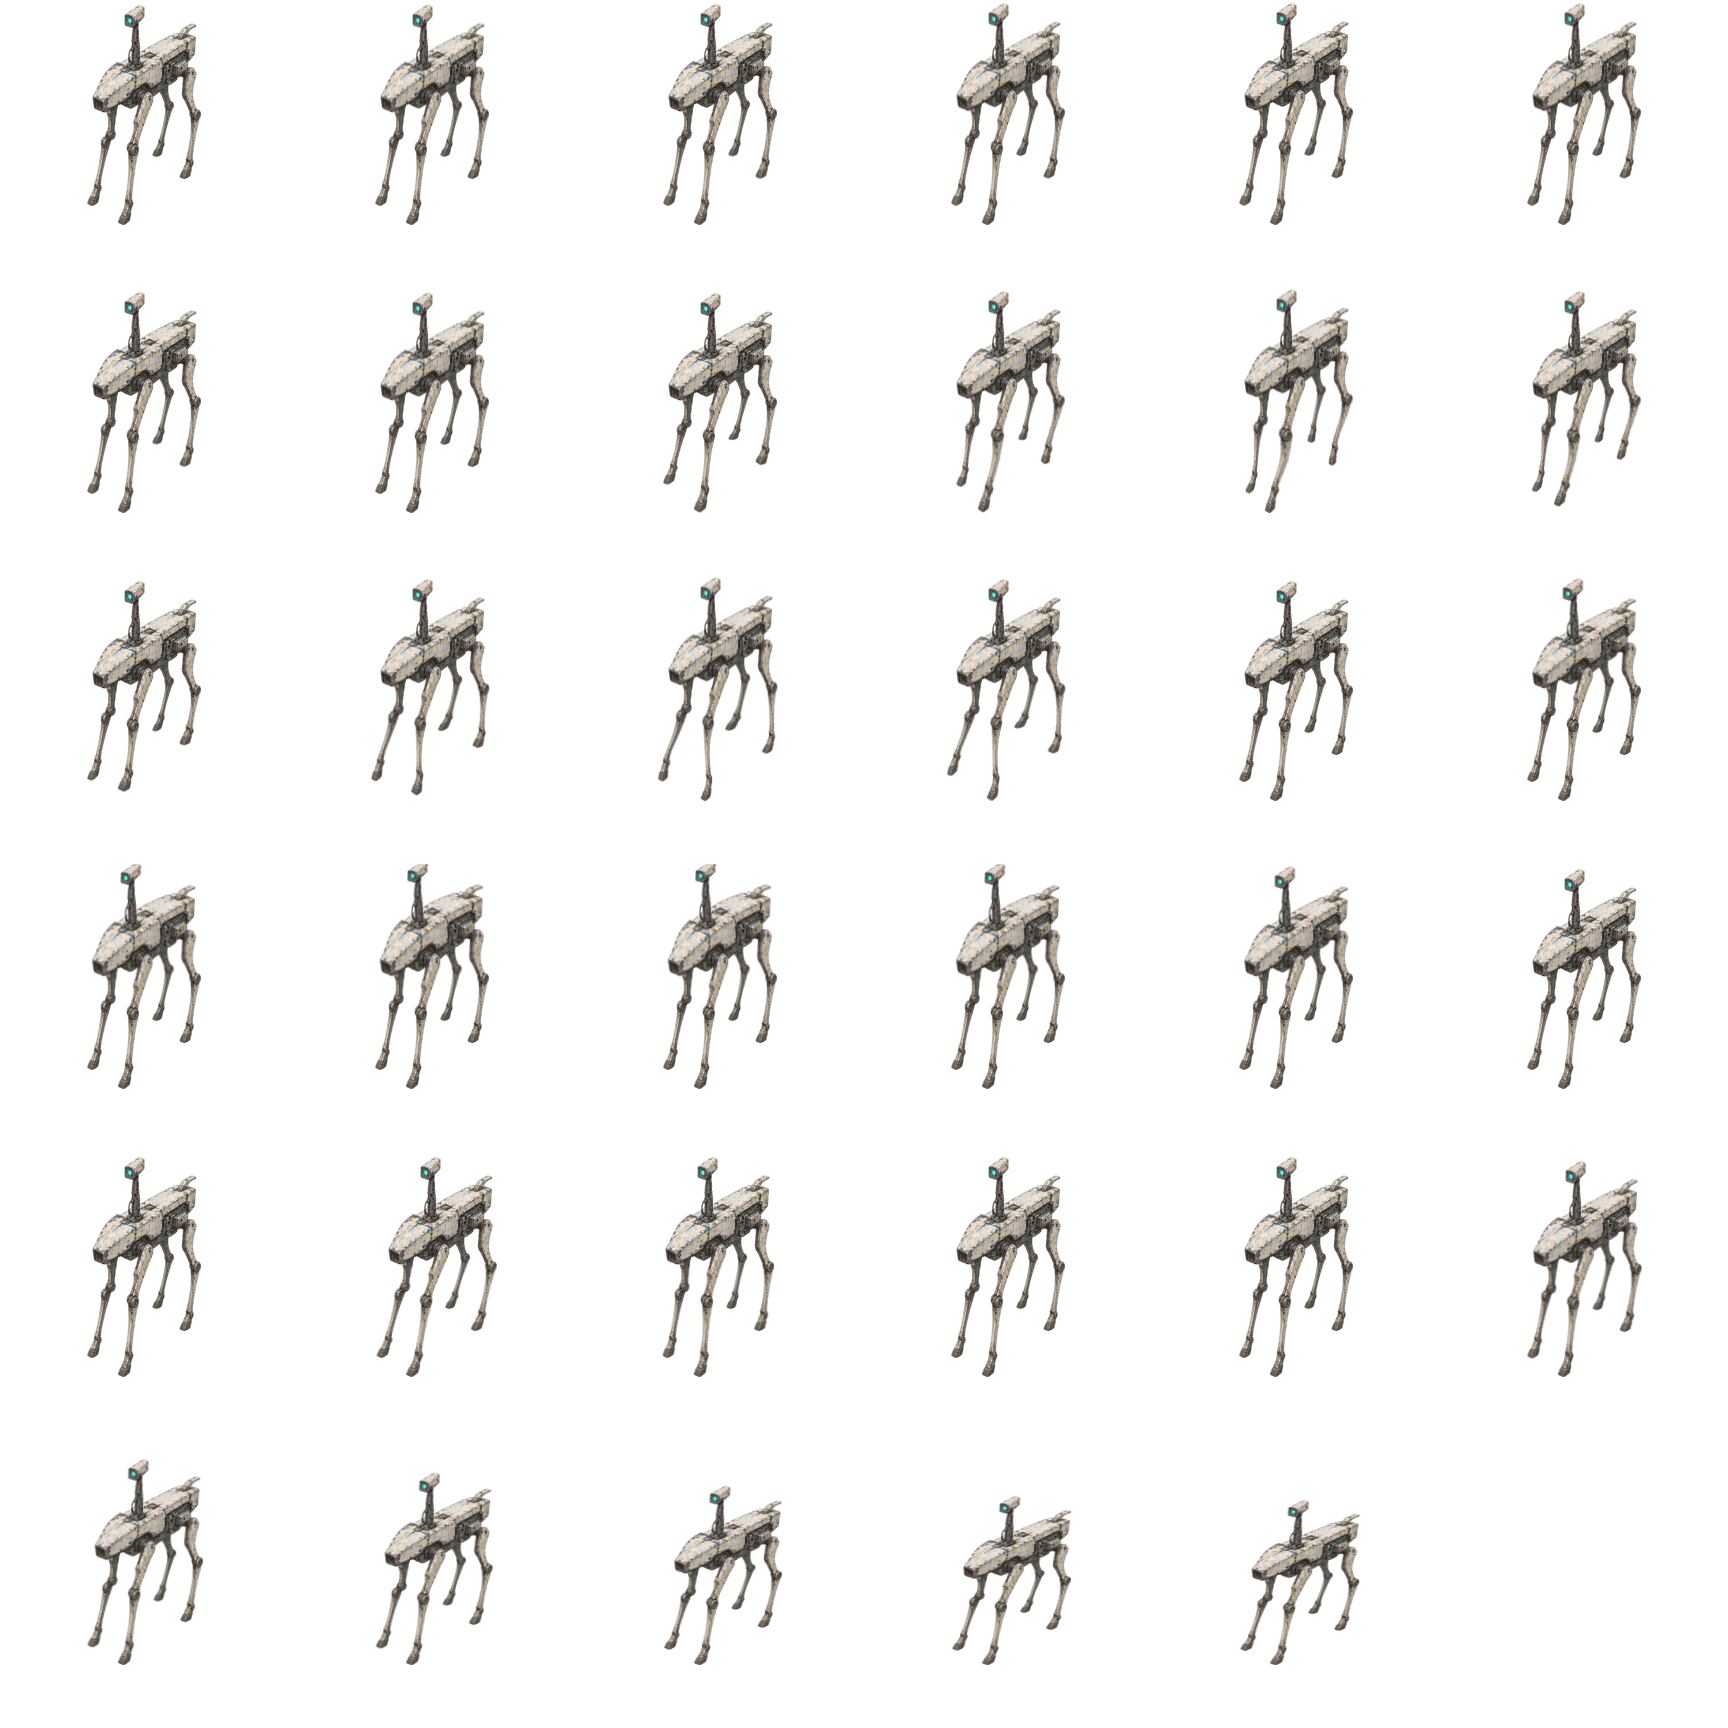
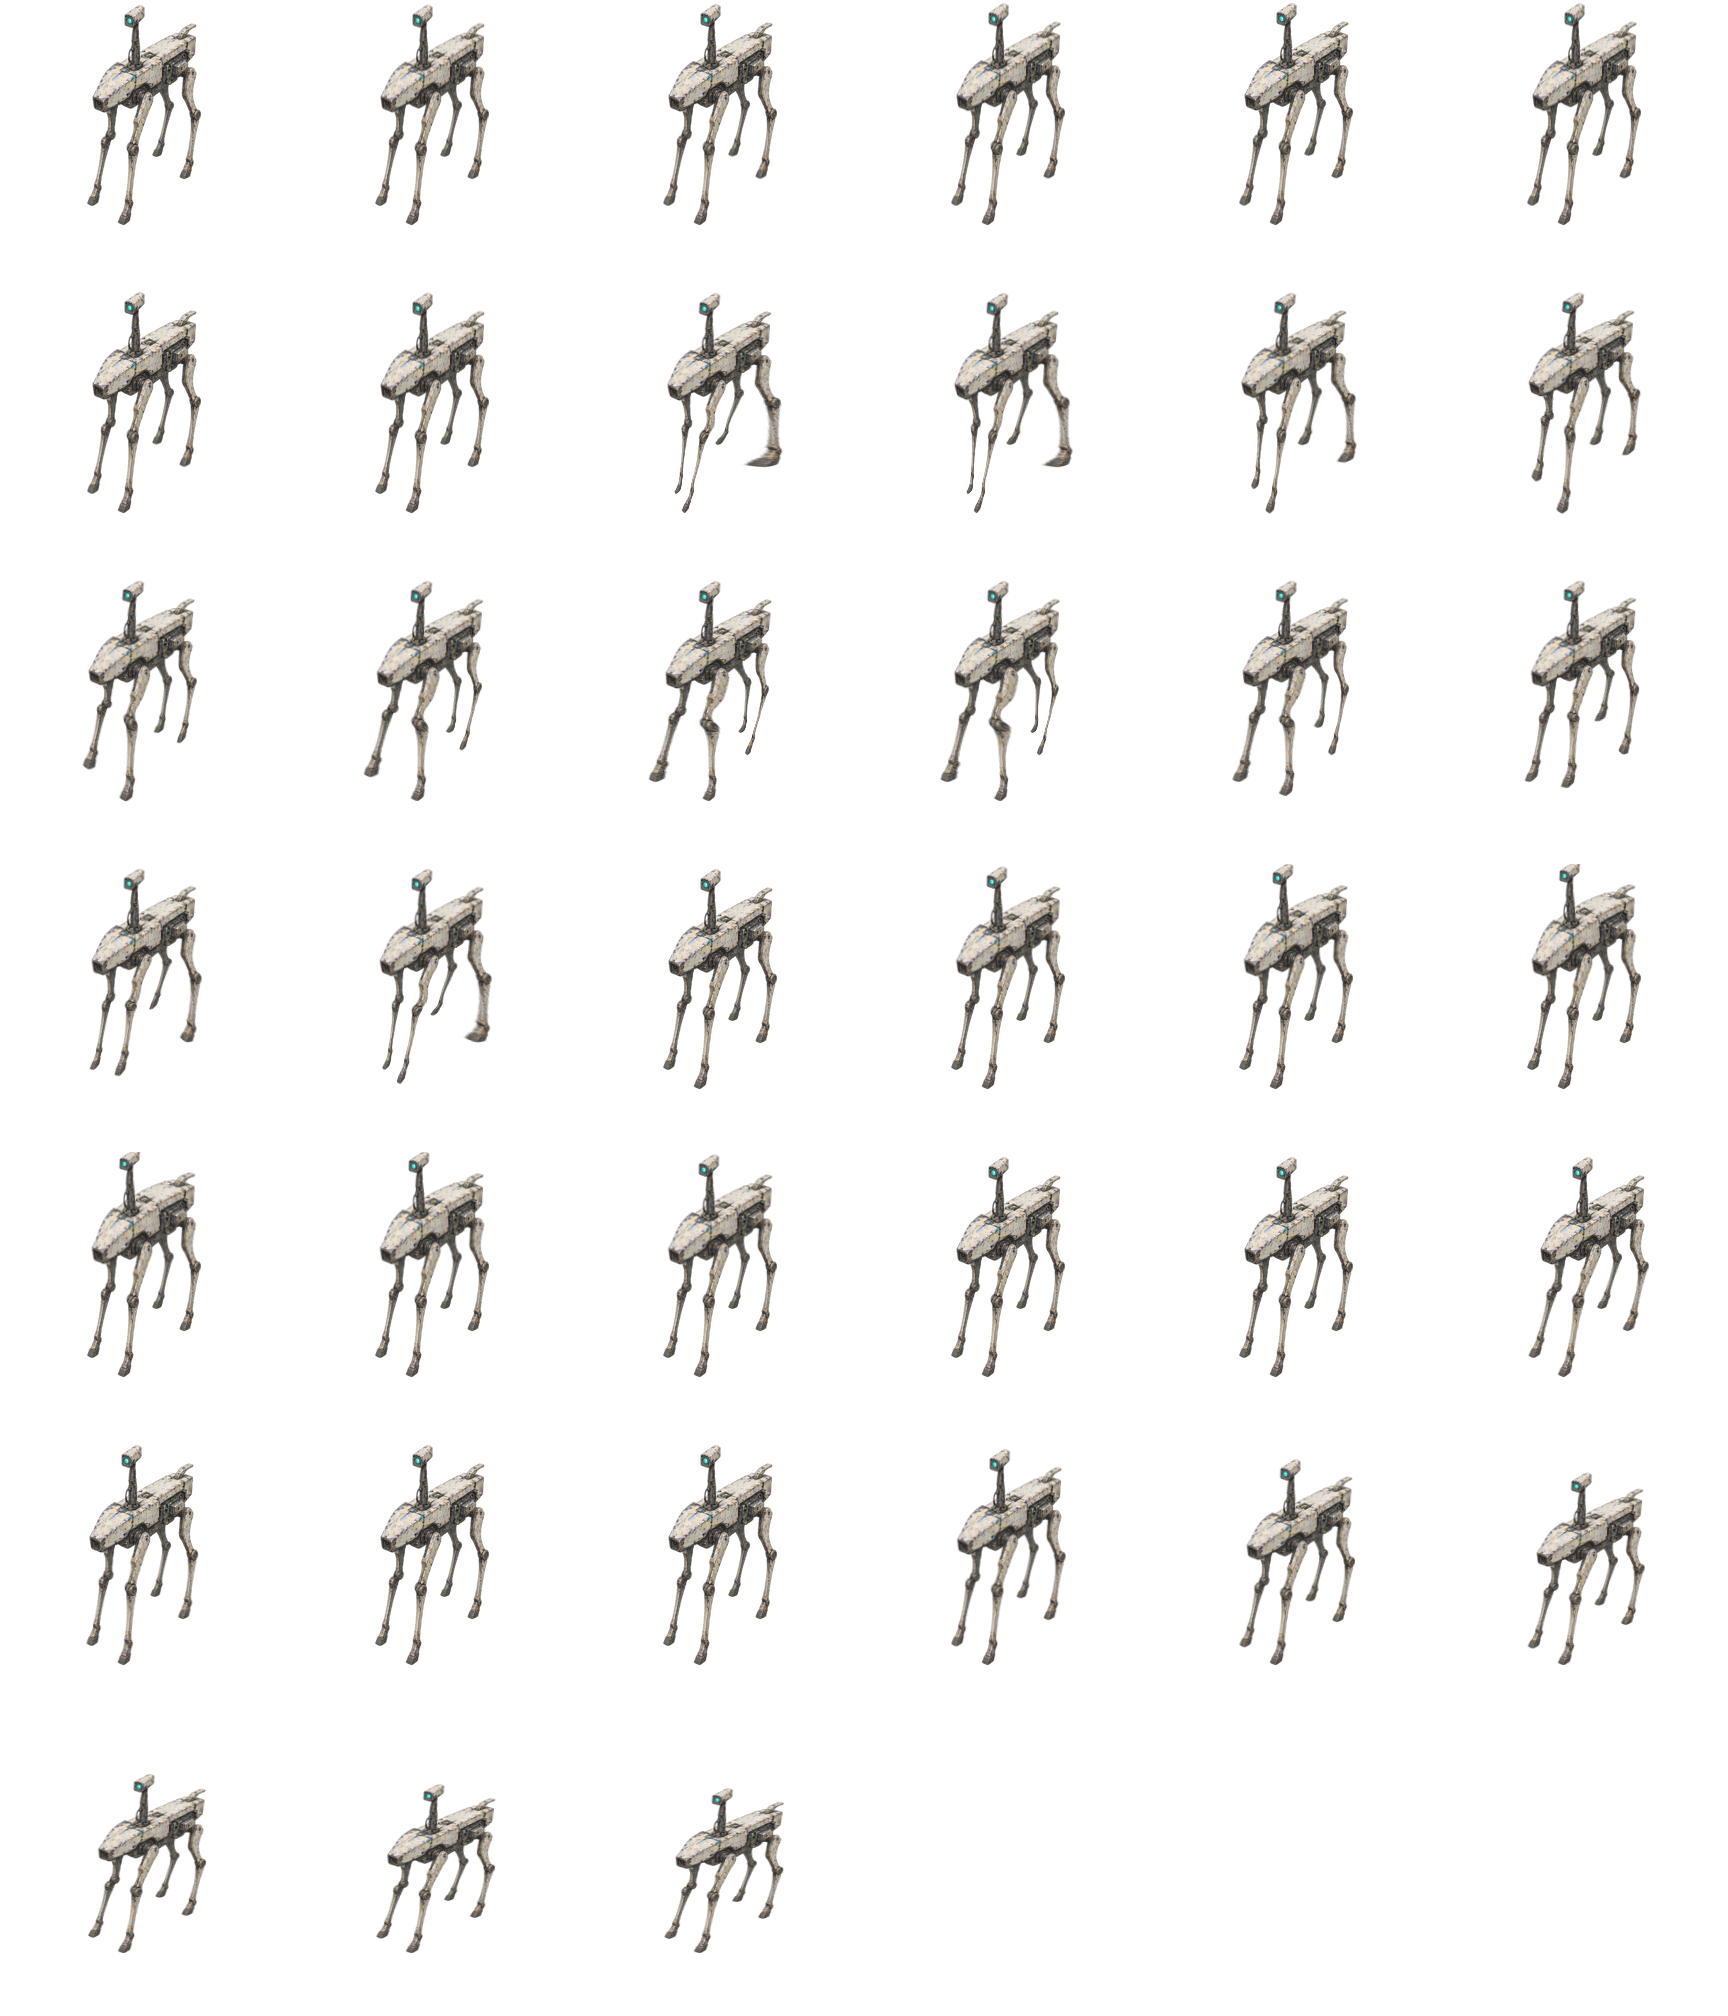
Donner aux drones une marche articulée

diff --git a/art-src/animations_m4/export.py b/art-src/animations_m4/export.py
@@ -4,6 +4,7 @@ from pathlib import Path
 
 import numpy as np
 from PIL import Image
+from scipy.interpolate import RBFInterpolator
 from scipy.ndimage import map_coordinates
 
 PROJECT = Path(__file__).resolve().parents[2]
@@ -15,17 +16,49 @@ GROUND = round(CELL * 0.78)
 COLUMNS = 6
 Y, X = np.mgrid[:CELL, :CELL].astype(float)
 
-# Points d'appui dans le cadre de jeu de 288 px. Les pattes alternent par paire.
+# Points d'appui des Gardiens dans le cadre de jeu de 288 px.
 FEET = {
-    "scout": ((95, 199), (120, 217), (158, 187), (184, 172)),
-    "technician": ((69, 181), (132, 216), (210, 180)),
     "patroller": ((90, 218), (132, 162), (200, 205)),
-    "scout_n": ((116, 223), (168, 224), (111, 161), (175, 161)),
-    "scout_s": ((118, 223), (169, 224), (114, 140), (174, 139)),
-    "technician_n": ((99, 222), (188, 222), (88, 165), (204, 165)),
-    "technician_s": ((97, 222), (190, 222), (89, 166), (200, 165)),
     "patroller_n": ((92, 189), (146, 223), (195, 189)),
     "patroller_s": ((91, 223), (132, 171), (198, 210)),
+}
+# Hanche, articulation, patin et déphasage. Le profil du Technicien masque la quatrième patte.
+LEGS = {
+    "scout": (
+        ((112, 109), (109, 138), (93, 199), .5),
+        ((145, 99), (135, 150), (122, 217), 0),
+        ((166, 82), (171, 106), (158, 151), 0),
+        ((189, 69), (196, 113), (186, 172), .5),
+    ),
+    "scout_n": (
+        ((127, 135), (120, 167), (117, 218), 0),
+        ((160, 137), (164, 167), (168, 218), .5),
+        ((124, 86), (118, 115), (112, 155), .5),
+        ((163, 86), (170, 115), (176, 155), 0),
+    ),
+    "scout_s": (
+        ((128, 119), (125, 164), (118, 218), .5),
+        ((159, 119), (163, 164), (169, 218), 0),
+        ((124, 65), (120, 94), (114, 135), 0),
+        ((164, 65), (168, 94), (174, 135), .5),
+    ),
+    "technician": (
+        ((92, 139), (78, 152), (73, 180), .5),
+        ((159, 153), (149, 172), (134, 216), 0),
+        ((190, 132), (207, 145), (214, 180), .75),
+    ),
+    "technician_n": (
+        ((111, 167), (105, 189), (99, 216), 0),
+        ((175, 167), (181, 189), (189, 216), .5),
+        ((103, 121), (90, 137), (88, 158), .25),
+        ((184, 121), (196, 137), (201, 158), .75),
+    ),
+    "technician_s": (
+        ((111, 166), (105, 191), (98, 216), .25),
+        ((175, 166), (183, 191), (190, 216), .75),
+        ((103, 120), (90, 138), (88, 158), 0),
+        ((184, 120), (197, 138), (200, 158), .5),
+    ),
 }
 ACTION = {
     "scout": (133, 25, -6, -10),
@@ -40,6 +73,11 @@ ACTION = {
     "patroller_s": (144, 61, 4, 6),
 }
 CLIPS = (("idle", 8), ("walk", 8), ("action", 8), ("hit", 4), ("disabled", 7))
+DRONE_WALK_FRAMES = 12
+GRID = np.column_stack((X.ravel(), Y.ravel()))
+FRAME_ANCHORS = (
+    (0, 0), (144, 0), (287, 0), (0, 144), (287, 144), (0, 287), (144, 287), (287, 287),
+)
 
 
 def mask(x, y, rx, ry):
@@ -48,6 +86,50 @@ def mask(x, y, rx, ry):
 
 def ease(t):
     return t * t * (3 - 2 * t)
+
+
+def walk_coords(unit, t):
+    heavy = unit.startswith("technician")
+    duty, stride, lift = (0.75, 53, 11) if heavy else (0.58, 60, 15)
+    if unit == "scout":
+        stride = 46  # Les tibias se recouvrent plus vite dans cette projection oblique.
+    forward = np.array((0, -1) if unit.endswith("_n") else (0, 1) if unit.endswith("_s") else (-1, 0))
+    vertical = np.array((0, 1))
+    # Le châssis s'incline légèrement dans le sens du déplacement et charge l'appui.
+    body = forward * (2.5 + 1.5 * math.sin(t * math.tau))
+    body -= vertical * (1 - math.cos(t * math.tau * (4 if heavy else 2))) * 1.5
+    source_points = list(FRAME_ANCHORS)
+    offsets = [np.zeros(2) for _ in FRAME_ANCHORS]
+    for point in ((144, 40), (143, 101), (144, 139)):
+        source_points.append(point)
+        offsets.append(body)
+
+    for hip, knee, foot, offset in LEGS[unit]:
+        phase = (t + offset) % 1.0
+        # En appui le patin recule à vitesse constante par rapport au châssis.
+        # En reprise, une arche le ramène vers son prochain point de contact.
+        if phase < duty:
+            travel = stride * (duty / 2 - phase)
+            raise_by = 0.0
+        else:
+            flight = (phase - duty) / (1 - duty)
+            travel = stride * duty * (ease(flight) - 0.5)
+            raise_by = lift * math.sin(math.pi * flight) ** 2
+        toe = forward * travel - vertical * raise_by
+        hinge = body * 0.62 + toe * 0.38 - vertical * (raise_by * 0.12)
+        source_points.extend((hip, knee, foot))
+        offsets.extend((body, hinge, toe))
+        if not heavy:
+            # Les tiges restent droites entre les articulations, même en extension.
+            hip, knee, foot = map(np.array, (hip, knee, foot))
+            source_points.extend(((hip + knee) / 2, (2 * knee + foot) / 3, (knee + 2 * foot) / 3))
+            offsets.extend(((body + hinge) / 2, (2 * hinge + toe) / 3, (hinge + 2 * toe) / 3))
+
+    source_points = np.array(source_points)
+    offsets = np.array(offsets)
+    inverse_warp = RBFInterpolator(source_points + offsets, -offsets, smoothing=4)
+    x, y = (GRID + inverse_warp(GRID)).T.reshape(2, CELL, CELL)
+    return y, x
 
 
 def pose(source, unit, clip, frame, count):
@@ -63,6 +145,8 @@ def pose(source, unit, clip, frame, count):
     elif clip == "walk":
         if unit == "sentinel":
             return Image.fromarray(source)
+        if unit in LEGS:
+            return sample_rgba(source, walk_coords(unit, t))
         dy -= (1 - math.cos(2 * cycle)) * 1.8 * from_ground
         for i, (x, y) in enumerate(FEET[unit]):
             phase = cycle + (i % 2) * math.pi
@@ -84,7 +168,10 @@ def pose(source, unit, clip, frame, count):
         dx += (GROUND - Y) * amount * 0.075
         dy += Y - sample_y
 
-    coords = (Y - dy, X - dx)
+    return sample_rgba(source, (Y - dy, X - dx))
+
+
+def sample_rgba(source, coords):
     # Interpolation prémultipliée pour conserver les bords peints sans frange.
     alpha = source[..., 3].astype(float) / 255
     warped_alpha = map_coordinates(alpha, coords, order=1, mode="constant")
@@ -102,11 +189,10 @@ def main():
         with Image.open(directory / f"{unit}.png") as image:
             rgba = image.convert("RGBA").resize((CELL, CELL), Image.Resampling.LANCZOS)
         source = np.asarray(rgba)
-        frames = [
-            pose(source, unit, clip, i, count)
-            for clip, count in CLIPS
-            for i in range(count)
-        ]
+        frames = []
+        for clip, default_count in CLIPS:
+            count = DRONE_WALK_FRAMES if clip == "walk" and unit in LEGS else default_count
+            frames.extend(pose(source, unit, clip, i, count) for i in range(count))
         rows = math.ceil(len(frames) / COLUMNS)
         atlas = Image.new("RGBA", (CELL * COLUMNS, CELL * rows))
         for i, image in enumerate(frames):

diff --git a/REVUE-M4.md b/REVUE-M4.md
@@ -19,9 +19,9 @@ Installer `Dogs-of-Gods-Surface.apk` sur un appareil ARM64 (Android 7.0 ou supé
 
 Le projet a été importé avec Godot 4.7 stable. Le validateur des données, les rejeux GDScript, les vérifications campagne et la suite d'interface en rendu 720 × 1280 ont réussi. La suite tactile couvre la victoire sans alerte en M4, les commandes de caméra, la sonde et l'affichage des intentions. L'APK ARM64 a été exporté et sa signature vérifiée. La revue sur matériel Android et les mesures de performance restent à effectuer.
 
-## Animations de présentation (revue 0.3.0)
+## Animations de présentation
 
-- L'Éclaireur, le Technicien, la Sentinelle et le Patrouilleur utilisent des feuilles de 35 images, à 12 images par seconde. Le mouvement suit le trajet du moteur de jeu et l'état logique de la mission est appliqué immédiatement.
+- L'Éclaireur (M1 et M4) et le Technicien (M4) utilisent des cycles de marche de 12 poses, avec deux cycles par case. L'Éclaireur alterne ses appuis en diagonale, le Technicien garde trois pattes en appui pendant la reprise. Le châssis accélère au départ, ralentit à l'arrivée et le cycle suit la distance parcourue. Leur feuille contient 39 images par orientation. Les Gardiens gardent leurs feuilles de 35 images et leurs cycles à 12 images par seconde. L'état logique de la mission est appliqué immédiatement.
 - Le bas de chaque sprite est ancré à 78 % du cadre. Les silhouettes peintes sont déformées localement pour faire bouger pattes, mât et bras. L’Éclaireur, le Technicien et le Patrouilleur changent de vue à chaque étape du trajet : de dos vers le nord, de face vers le sud, de profil vers l’ouest et en profil miroir vers l’est. Ils gardent la dernière vue à l’arrivée. La Sentinelle reste fixe et son orientation est indiquée au sol.
 - Le bouton « Réduire les animations » enregistre un réglage persistant. Quand il est actif, les unités sont affichées directement dans leur case de destination.
 - Pour reproduire les feuilles, lancer `python art-src/animations_m4/export.py` après l'export des sprites M4. Les poses maîtresses nord et sud sont dans `art-src/animations_m4/directions/` (PNG RGBA, 576 × 576 px). Le rig 3D et les mesures sur téléphone restent à faire.
